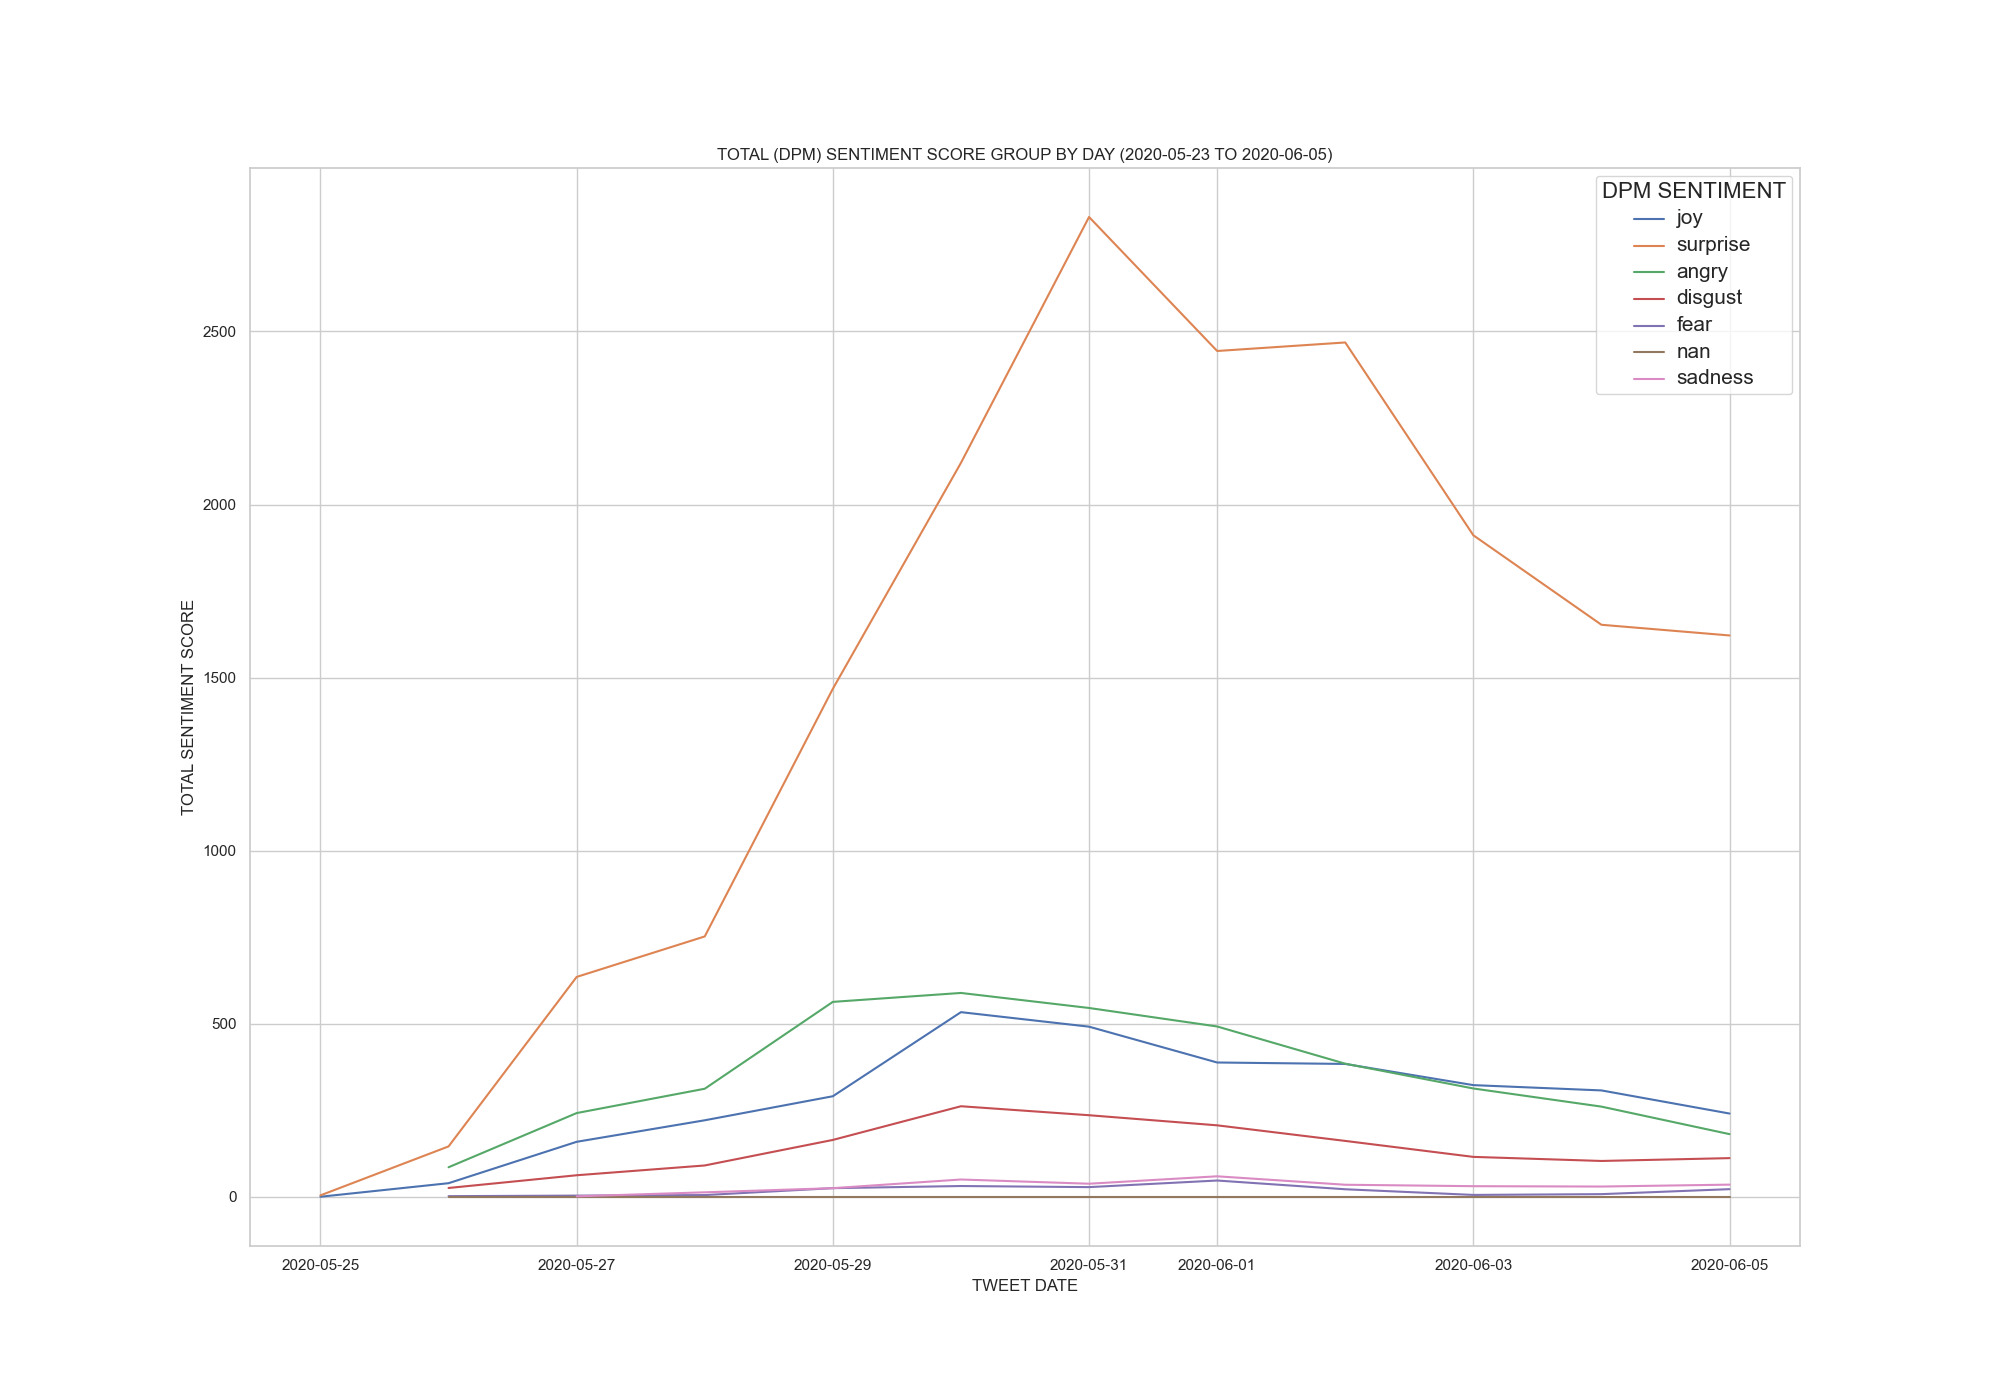
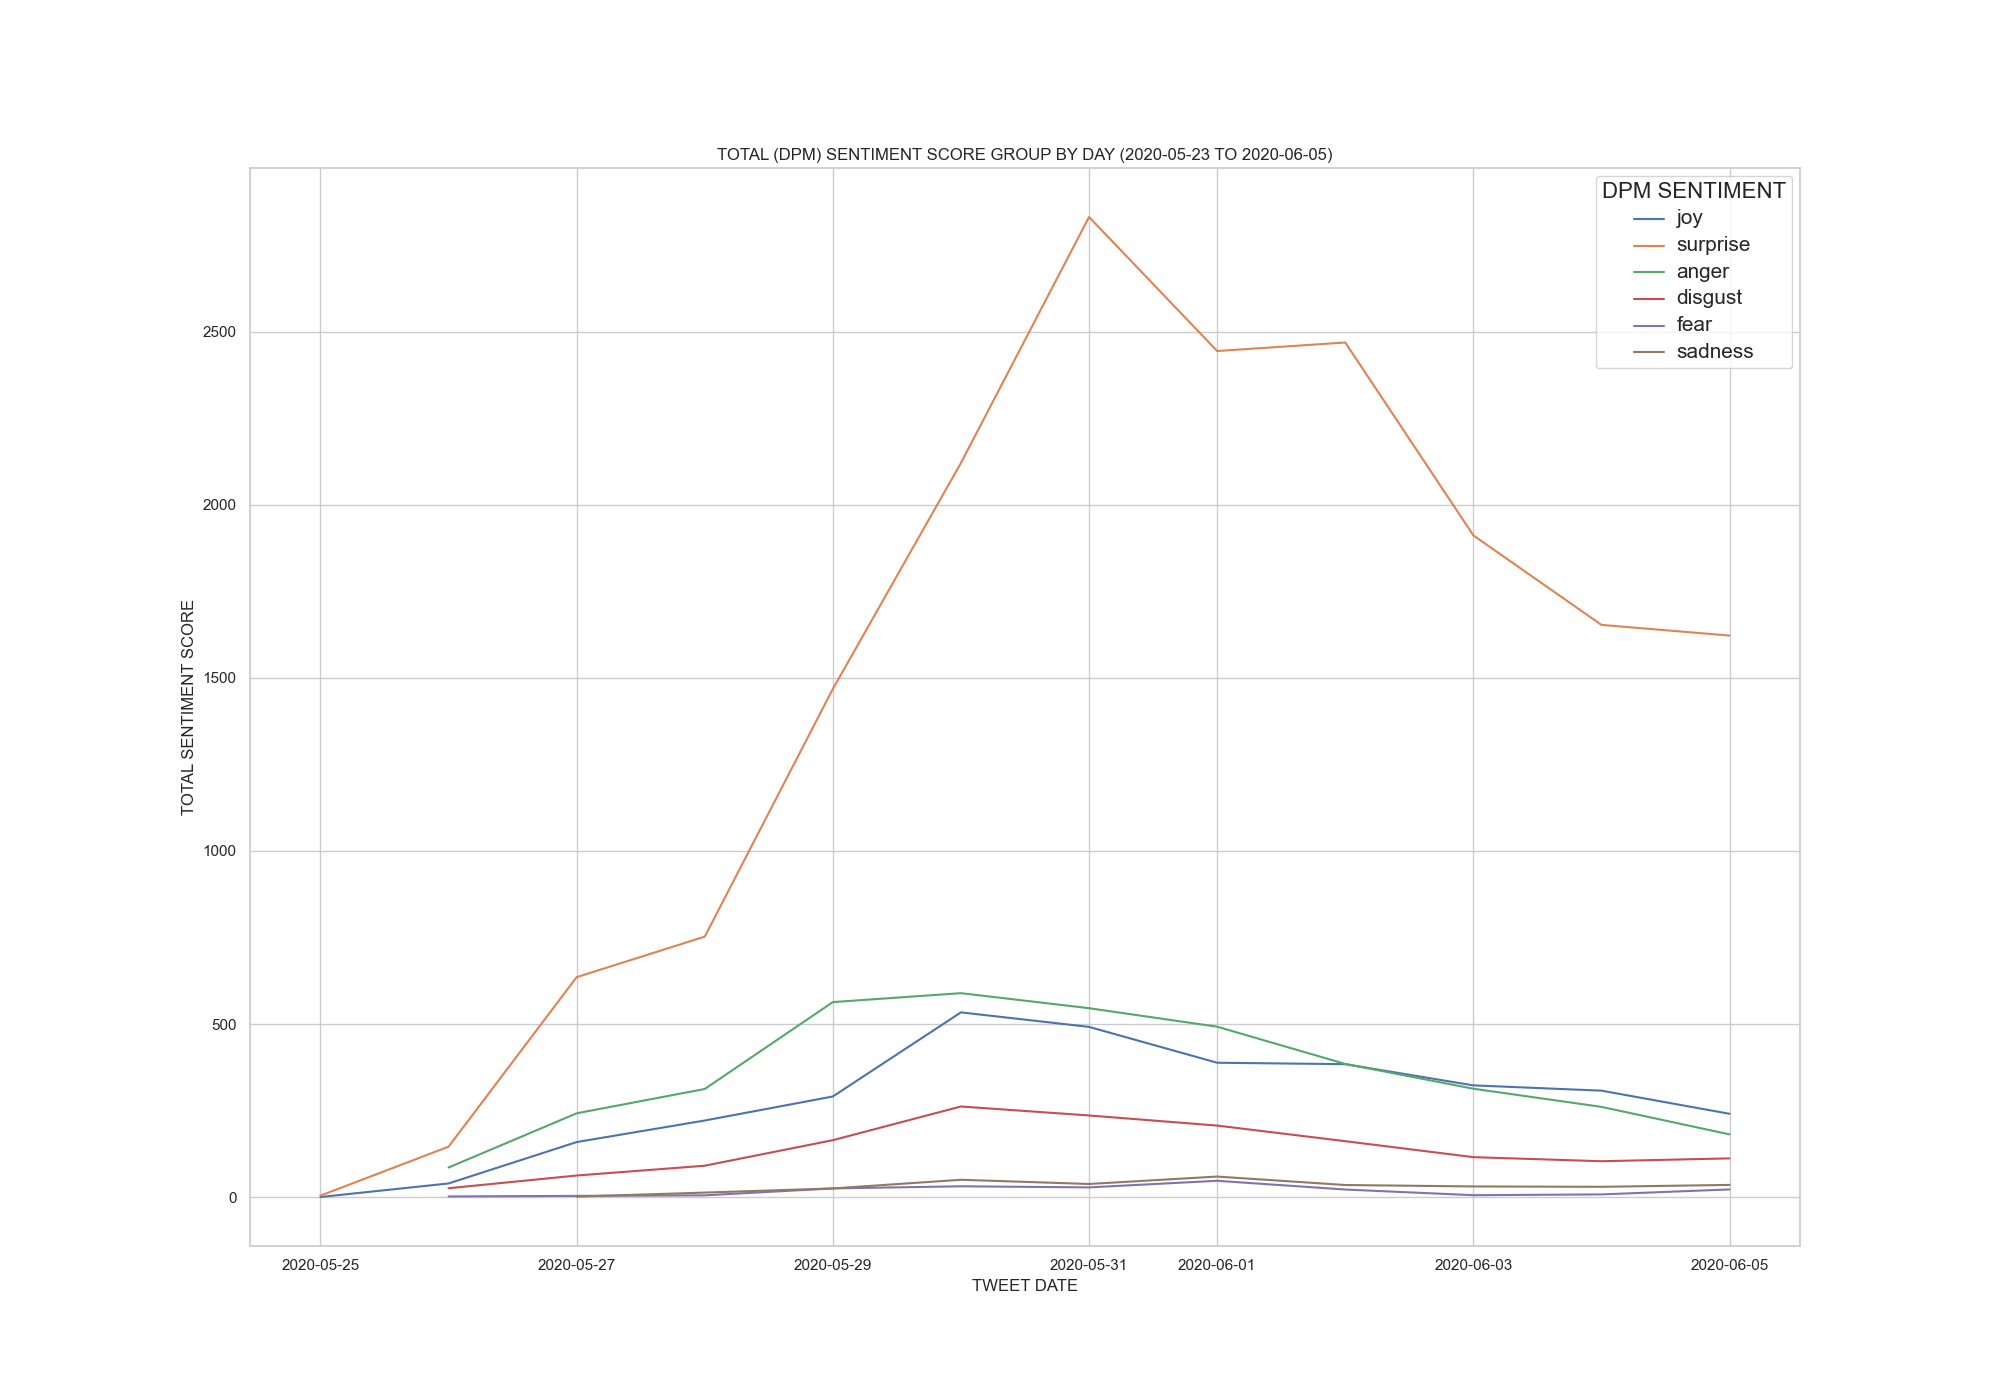
fixed nan issue

Changed region(s): [[0.217, 0.8293, 0.868, 0.86], [0.837, 0.2457, 0.899, 0.2764]]

diff --git a/Controller/Visualization/KdePlotViz.py b/Controller/Visualization/KdePlotViz.py
@@ -68,6 +68,9 @@ def plot_sentiment_day_key_with_period(df, lexicon_name, dir_path, selected_key,
     senti_name = "{}_sentiment".format(lexicon_name)
     senti_key = "{}_sentiment_{}".format(lexicon_name, selected_key)
 
+    # REMOVE NULL
+    df = df[df[senti_name].notna()]
+
     # SET PLOT LEGEND AN OUTPUT
     y_attr_title = "Total Sentiment {}".format(selected_key)
     x_attr_title = "Tweet Date"
@@ -75,8 +78,8 @@ def plot_sentiment_day_key_with_period(df, lexicon_name, dir_path, selected_key,
     legend_title = "{} Sentiment".format(lexicon_name.upper())
 
     # GENERATE DATAFRAME
-    start_date = DateHelper.get_date_with_time(n_start_date)
-    end_date = DateHelper.get_date_with_time(n_end_date)
+    start_date = DateHelper.get_date_with_time(n_start_date).date()
+    end_date = DateHelper.get_date_with_time(n_end_date).date()
     df = df.loc[(df['tweet_created_date'] > start_date) & (df['tweet_created_date'] <= end_date)]
 
     # INDIVIDUAL
@@ -84,13 +87,14 @@ def plot_sentiment_day_key_with_period(df, lexicon_name, dir_path, selected_key,
     df_i = df[["tweet_created_date", senti_name, senti_key]].groupby(["tweet_created_date", senti_name], as_index=False).sum()
     df_i['tweet_created_date'] = pd.to_datetime(df_i['tweet_created_date'], format='%Y-%m-%d')
     df_i[senti_name] = df_i[senti_name].astype(str)
+
     plot(senti_key, "tweet_created_date", senti_name, df_i, y_attr_title, x_attr_title, title, legend_title, output_file)
     plot_facet_grid(senti_key, "tweet_created_date", senti_name, df_i, output_file)
 
     # STANDARD
     if include_standard:
 
-        if lexicon_name=="nrc":
+        if lexicon_name == "nrc":
             df_s = NrcController.get_standard_model(df)
         elif lexicon_name == "dpm":
             df_s = DepecheMoodController.get_standard_model(df)
@@ -99,15 +103,19 @@ def plot_sentiment_day_key_with_period(df, lexicon_name, dir_path, selected_key,
         df_s = df_s[["tweet_created_date", senti_name, senti_key]].groupby(["tweet_created_date", senti_name], as_index=False).sum()
         df_s['tweet_created_date'] = pd.to_datetime(df_s['tweet_created_date'], format='%Y-%m-%d')
         df_s[senti_name] = df_s[senti_name].astype(str)
+
         plot(senti_key, "tweet_created_date", senti_name, df_s, y_attr_title, x_attr_title, title, legend_title, output_file)
         plot_facet_grid(senti_key, "tweet_created_date", senti_name, df_s, output_file)
 
 
 def plot_sentiment_day_key(df, lexicon_name, dir_path, selected_key, include_standard):
-    
+
     # PARAMETER
     senti_name = "{}_sentiment".format(lexicon_name)
     senti_key = "{}_sentiment_{}".format(lexicon_name, selected_key)
+
+    # REMOVE NULL
+    df = df[df[senti_name].notna()]
 
     # SET PLOT LEGEND AN OUTPUT
     y_attr_title = "Total Sentiment {}".format(selected_key)

diff --git a/dataset/blm_minesota/3_analysis.py b/dataset/blm_minesota/3_analysis.py
@@ -32,14 +32,11 @@ df['tweet_created_date'] = df['tweet_created_dt'].apply(lambda x: datetime.strpt
 df['tweet_created_hour'] = df['tweet_created_dt'].apply(lambda x: DateHelper.get_date_with_hour(str(x), date_format))
 #DataAssess.run(df)
 
-# SCORE AND COUNT COMPARISON
-l_sentiment_date = "tweet_created_date"
-
 include_count = True
 include_standard = True
 
 # LINE PLOT
-LinePlotViz.plot_sentiment(df, "nrc", dir_path, min_intensity, focus_from_date, focus_to_date, include_count, include_standard)
-LinePlotViz.plot_sentiment(df, "dpm", dir_path, min_intensity, focus_from_date, focus_to_date, include_count, include_standard)
-#KdePlotViz.plot_sentiment(df, "nrc", dir_path, min_intensity, focus_from_date, focus_to_date, include_count, include_standard)
-#KdePlotViz.plot_sentiment(df, "dpm", dir_path, min_intensity, focus_from_date, focus_to_date, include_count, include_standard)
+#LinePlotViz.plot_sentiment(df, "nrc", dir_path, min_intensity, focus_from_date, focus_to_date, include_count, include_standard)
+#LinePlotViz.plot_sentiment(df, "dpm", dir_path, min_intensity, focus_from_date, focus_to_date, include_count, include_standard)
+KdePlotViz.plot_sentiment(df, "nrc", dir_path, min_intensity, focus_from_date, focus_to_date, include_count, include_standard)
+KdePlotViz.plot_sentiment(df, "dpm", dir_path, min_intensity, focus_from_date, focus_to_date, include_count, include_standard)

diff --git a/Controller/Visualization/LinePlotViz.py b/Controller/Visualization/LinePlotViz.py
@@ -67,6 +67,9 @@ def plot_sentiment_day_key_with_period(df, lexicon_name, dir_path, selected_key,
     senti_name = "{}_sentiment".format(lexicon_name)
     senti_key = "{}_sentiment_{}".format(lexicon_name, selected_key)
 
+    # REMOVE NULL
+    df = df[df[senti_name].notna()]
+
     # SET PLOT LEGEND AN OUTPUT
     y_attr_title = "Total Sentiment {}".format(selected_key)
     x_attr_title = "Tweet Date"
@@ -106,6 +109,9 @@ def plot_sentiment_day_key_with_intensity(df, lexicon_name, dir_path, selected_k
     senti_name = "{}_sentiment".format(lexicon_name)
     senti_key = "{}_sentiment_{}".format(lexicon_name, selected_key)
 
+    # REMOVE NULL
+    df = df[df[senti_name].notna()]
+
     # SET PLOT LEGEND AN OUTPUT
     yAttrTitle = "Total Sentiment {}".format(selected_key)
     xAttrTitle = "Tweet Date"
@@ -139,6 +145,9 @@ def plot_sentiment_day_key(df, lexicon_name, dir_path, selected_key, include_sta
     # PARAMETER
     senti_name = "{}_sentiment".format(lexicon_name)
     senti_key = "{}_sentiment_{}".format(lexicon_name, selected_key)  # SCORE OR COUNT
+
+    # REMOVE NULL
+    df = df[df[senti_name].notna()]
 
     # SET PLOT LEGEND AN OUTPUT
     yAttrTitle = "Total Sentiment {}".format(selected_key)

diff --git a/Lexicon/DepecheMood/DepecheMoodController.py b/Lexicon/DepecheMood/DepecheMoodController.py
@@ -186,6 +186,8 @@ def combine_joy(x):
         str_mood = "joy"
     elif x == "annoyed":
         str_mood = "disgust"
+    elif x == "angry":
+        str_mood = "anger"
     elif x == "afraid":
         str_mood = "fear"
     elif x == "sad":
@@ -195,6 +197,7 @@ def combine_joy(x):
 
     return str_mood
 
+
 def get_standard_model(df):
 
     # EXCLUDE DON"T CARE
@@ -203,5 +206,7 @@ def get_standard_model(df):
 
     # COMBINE AMUSED AND HAPPY
     df['dpm_sentiment'] = df['dpm_sentiment'].apply(lambda x: combine_joy(str(x)))
+
+    df = df[df['dpm_sentiment'].notna()]
 
     return df
